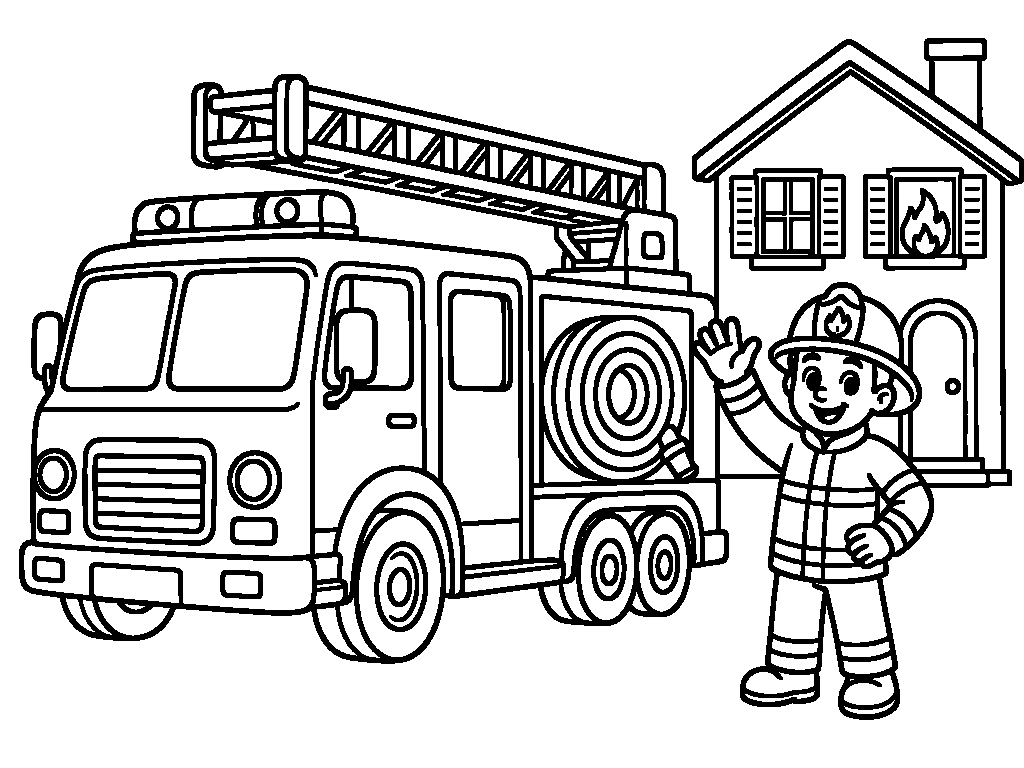
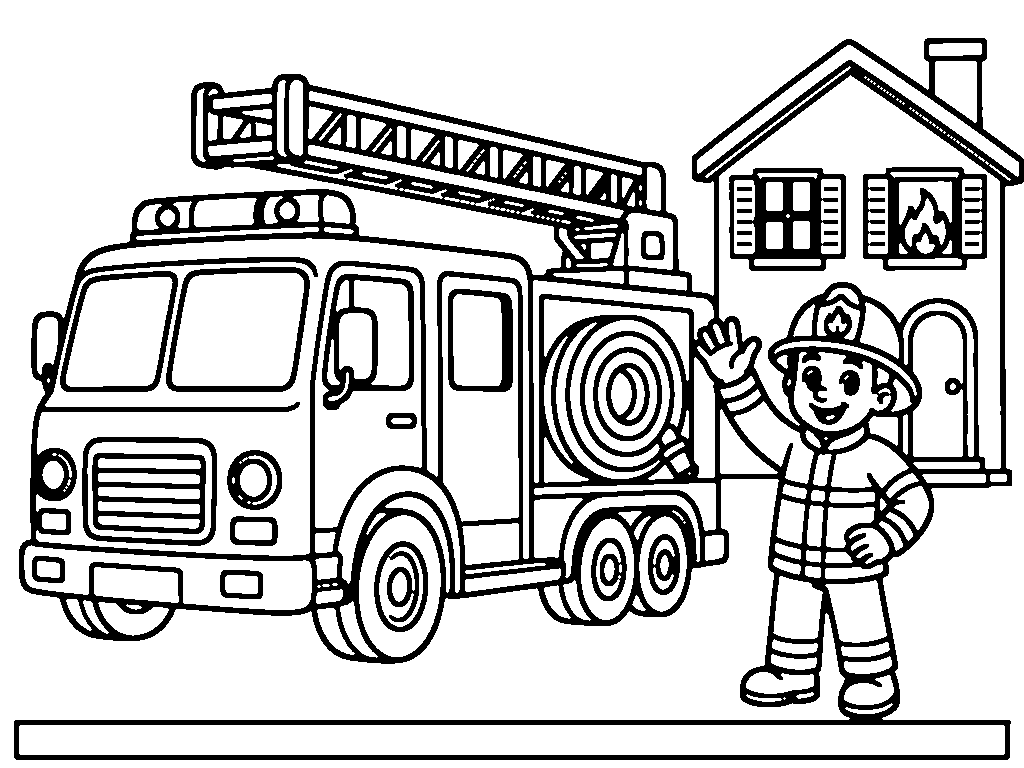
Sluit open vlakken in alle kleurplaten zodat een tik alleen het bedoelde gebied vult.
De heuvel, zee, zand, bergen, grond, rook en palmstammen liepen over in de lucht, en lijnen die tot de rand van de tekening gingen lekten rond het canvas. De omtrekken zijn nu gesloten, de lijnkunst wordt scherper gestempeld en dikker gemaakt, en een test bewaakt dat een vulgebied onder de 25% blijft (behalve de achtergrond).

Changed region(s): [[0.0, 0.9375, 1.0, 1.0], [0.9062, 0.2812, 0.9375, 0.3125]]

diff --git a/test/kleur-fill-regions.js b/test/kleur-fill-regions.js
@@ -1,0 +1,263 @@
+'use strict';
+/**
+ * For every kleurplaat, flood-fill sample points on the live canvas and
+ * assert that a fill stays under ~25% of the canvas, except the intended
+ * background (the region that touches the canvas border / paper edge).
+ *
+ * Serve the app at http://127.0.0.1:8765 then:
+ *   NODE_PATH=/path/to/node_modules node test/kleur-fill-regions.js
+ */
+const puppeteer = require('puppeteer-core');
+const wait = function (ms) { return new Promise(function (r) { setTimeout(r, ms); }); };
+
+const APP = process.env.APP_URL || 'http://127.0.0.1:8765/index.html';
+const CHROME = process.env.CHROME || '/usr/bin/google-chrome';
+const MAX_INNER_PCT = 25;
+
+const PAGES = [
+  'monstertruck', 'dino', 'raket', 'draak', 'eenhoorn', 'brandweerauto',
+  'piratenschip', 'boerderijdieren', 'kasteel', 'vliegtuig', 'prinses', 'onderwater'
+];
+
+/* Known spots that used to leak into the sky / half the page (PNG 1024x768). */
+const LEAK_SAMPLES = {
+  monstertruck: [{ x: 512, y: 620, name: 'heuvel' }, { x: 121, y: 87, name: 'ster' }, { x: 635, y: 308, name: 'portier' }],
+  dino: [{ x: 191, y: 124, name: 'rook' }, { x: 500, y: 720, name: 'grond' }, { x: 910, y: 418, name: 'palmstam' }, { x: 600, y: 400, name: 'dino' }],
+  draak: [{ x: 150, y: 300, name: 'berg-links' }, { x: 850, y: 300, name: 'berg-rechts' }, { x: 80, y: 600, name: 'voorgrond' }, { x: 500, y: 600, name: 'rots' }],
+  piratenschip: [{ x: 500, y: 650, name: 'zee' }, { x: 400, y: 280, name: 'zeil' }],
+  onderwater: [{ x: 500, y: 700, name: 'zand' }, { x: 449, y: 401, name: 'octopus' }],
+  boerderijdieren: [{ x: 200, y: 700, name: 'grond' }, { x: 400, y: 500, name: 'varken' }],
+  brandweerauto: [{ x: 512, y: 739, name: 'grond' }, { x: 400, y: 400, name: 'auto' }],
+  prinses: [{ x: 200, y: 750, name: 'grond' }, { x: 400, y: 400, name: 'jurk' }],
+  eenhoorn: [{ x: 500, y: 350, name: 'regenboog' }, { x: 400, y: 200, name: 'lijf' }],
+  kasteel: [{ x: 512, y: 680, name: 'gracht' }, { x: 500, y: 400, name: 'muur' }],
+  raket: [{ x: 512, y: 300, name: 'raket' }, { x: 200, y: 150, name: 'maan' }],
+  vliegtuig: [{ x: 500, y: 350, name: 'toestel' }, { x: 200, y: 500, name: 'wolk' }]
+};
+
+async function waitOutline(page) {
+  var deadline = Date.now() + 8000;
+  while (Date.now() < deadline) {
+    var ready = await page.evaluate(function () {
+      var c = document.getElementById('teken-outline');
+      if (!c) return false;
+      var d = c.getContext('2d').getImageData(0, 0, c.width, c.height).data;
+      var i, n = 0;
+      for (i = 3; i < d.length; i += 16) if (d[i] > 40) n++;
+      return n > 200;
+    });
+    if (ready) return true;
+    await wait(100);
+  }
+  return false;
+}
+
+async function openFromKies(page, id) {
+  var onTeken = await page.evaluate(function () {
+    var el = document.getElementById('screen-teken');
+    return el && el.className.indexOf('is-hidden') === -1;
+  });
+  if (onTeken) {
+    await page.click('#btn-teken-back');
+    await wait(350);
+  }
+  var onKies = await page.evaluate(function () {
+    var el = document.getElementById('screen-kleurkies');
+    return el && el.className.indexOf('is-hidden') === -1;
+  });
+  if (!onKies) {
+    throw new Error('niet op kleurkies voor ' + id);
+  }
+  await page.click('[data-page="' + id + '"]');
+  await page.waitForSelector('#screen-teken:not(.is-hidden)');
+  if (!(await waitOutline(page))) throw new Error('outline niet geladen: ' + id);
+}
+
+(async function main() {
+  const browser = await puppeteer.launch({
+    executablePath: CHROME,
+    headless: 'new',
+    args: ['--no-sandbox', '--disable-gpu']
+  });
+  const page = await browser.newPage();
+  await page.setViewport({ width: 1024, height: 768, deviceScaleFactor: 1 });
+  await page.goto(APP, { waitUntil: 'networkidle0' });
+  await page.evaluate(function () { try { localStorage.clear(); } catch (e) {} });
+  await page.reload({ waitUntil: 'networkidle0' });
+  await wait(200);
+  await page.click('#btn-goto-tekenen');
+  await wait(250);
+  await page.click('[data-act="teken-kleur"]');
+  await wait(400);
+
+  var failed = [];
+  var i, id, report, j, rec;
+
+  for (i = 0; i < PAGES.length; i++) {
+    id = PAGES[i];
+    await openFromKies(page, id);
+    report = await page.evaluate(function (samples) {
+      var paper = document.getElementById('teken-paper');
+      var outline = document.getElementById('teken-outline');
+      if (!paper || !outline) return { error: 'geen canvas' };
+      var w = paper.width, h = paper.height, tot = w * h;
+      var odata = outline.getContext('2d').getImageData(0, 0, w, h).data;
+
+      function isWall(x, y) {
+        if (x < 0 || y < 0 || x >= w || y >= h) return true;
+        return odata[(y * w + x) * 4 + 3] > 40;
+      }
+
+      function floodArea(sx, sy) {
+        if (isWall(sx, sy)) return { area: 0, pct: 0, wall: true, touchesBorder: false };
+        var seen = new Uint8Array(tot);
+        var stack = [sx, sy];
+        var area = 0, touches = false, x, y, pos;
+        seen[sy * w + sx] = 1;
+        while (stack.length) {
+          y = stack.pop();
+          x = stack.pop();
+          if (x === 0 || y === 0 || x === w - 1 || y === h - 1) touches = true;
+          area++;
+          if (x + 1 < w && !seen[y * w + x + 1] && !isWall(x + 1, y)) { seen[y * w + x + 1] = 1; stack.push(x + 1, y); }
+          if (x - 1 >= 0 && !seen[y * w + x - 1] && !isWall(x - 1, y)) { seen[y * w + x - 1] = 1; stack.push(x - 1, y); }
+          if (y + 1 < h && !seen[(y + 1) * w + x] && !isWall(x, y + 1)) { seen[(y + 1) * w + x] = 1; stack.push(x, y + 1); }
+          if (y - 1 >= 0 && !seen[(y - 1) * w + x] && !isWall(x, y - 1)) { seen[(y - 1) * w + x] = 1; stack.push(x, y - 1); }
+        }
+        return { area: area, pct: area * 100 / tot, wall: false, touchesBorder: touches };
+      }
+
+      function pngToCanvas(px, py) {
+        var pad = Math.round(Math.min(w, h) * 0.03);
+        var iw = 1024, ih = 768;
+        var s = Math.min((w - pad * 2) / iw, (h - pad * 2) / ih);
+        var dw = iw * s, dh = ih * s;
+        var dx = (w - dw) / 2, dy = (h - dh) / 2;
+        return { x: Math.floor(dx + px * s), y: Math.floor(dy + py * s) };
+      }
+
+      /* Connected components of free pixels; take the largest inner seeds. */
+      var labels = new Int32Array(tot);
+      var comp = 0;
+      var stats = [];
+      var x, y, pos, k, qx, qy, q, area, touches, cx, cy, start;
+      for (y = 0; y < h; y++) {
+        for (x = 0; x < w; x++) {
+          pos = y * w + x;
+          if (labels[pos] || odata[pos * 4 + 3] > 40) continue;
+          comp++;
+          q = [x, y];
+          labels[pos] = comp;
+          area = 0;
+          touches = false;
+          cx = 0;
+          cy = 0;
+          while (q.length) {
+            qy = q.pop();
+            qx = q.pop();
+            area++;
+            cx += qx;
+            cy += qy;
+            if (qx === 0 || qy === 0 || qx === w - 1 || qy === h - 1) touches = true;
+            if (qx + 1 < w && !labels[qy * w + qx + 1] && odata[(qy * w + qx + 1) * 4 + 3] <= 40) {
+              labels[qy * w + qx + 1] = comp; q.push(qx + 1, qy);
+            }
+            if (qx - 1 >= 0 && !labels[qy * w + qx - 1] && odata[(qy * w + qx - 1) * 4 + 3] <= 40) {
+              labels[qy * w + qx - 1] = comp; q.push(qx - 1, qy);
+            }
+            if (qy + 1 < h && !labels[(qy + 1) * w + qx] && odata[((qy + 1) * w + qx) * 4 + 3] <= 40) {
+              labels[(qy + 1) * w + qx] = comp; q.push(qx, qy + 1);
+            }
+            if (qy - 1 >= 0 && !labels[(qy - 1) * w + qx] && odata[((qy - 1) * w + qx) * 4 + 3] <= 40) {
+              labels[(qy - 1) * w + qx] = comp; q.push(qx, qy - 1);
+            }
+          }
+          stats.push({
+            id: comp,
+            area: area,
+            pct: area * 100 / tot,
+            touches: touches,
+            cx: Math.floor(cx / area),
+            cy: Math.floor(cy / area)
+          });
+        }
+      }
+      stats.sort(function (a, b) { return b.area - a.area; });
+
+      var results = [];
+      var inner = [];
+      for (k = 0; k < stats.length; k++) {
+        if (!stats[k].touches && stats[k].pct >= 0.2) inner.push(stats[k]);
+      }
+      /* A few of the largest inner regions. */
+      for (k = 0; k < inner.length && k < 10; k++) {
+        results.push({
+          name: 'inner-' + k,
+          x: inner[k].cx,
+          y: inner[k].cy,
+          fill: floodArea(inner[k].cx, inner[k].cy),
+          kind: 'inner'
+        });
+      }
+      /* Background corner should be allowed to be large. */
+      start = floodArea(2, 2);
+      results.push({ name: 'hoek-achtergrond', x: 2, y: 2, fill: start, kind: 'background' });
+
+      for (k = 0; k < samples.length; k++) {
+        var p = pngToCanvas(samples[k].x, samples[k].y);
+        /* If we landed on ink, walk a few pixels for a free neighbour. */
+        var sx = p.x, sy = p.y, found = !isWall(sx, sy), r, a, b;
+        if (!found) {
+          for (r = 1; r <= 12 && !found; r++) {
+            for (a = -r; a <= r && !found; a++) {
+              for (b = -r; b <= r && !found; b++) {
+                if (!isWall(p.x + a, p.y + b)) { sx = p.x + a; sy = p.y + b; found = true; }
+              }
+            }
+          }
+        }
+        results.push({
+          name: samples[k].name,
+          x: sx,
+          y: sy,
+          fill: found ? floodArea(sx, sy) : { area: 0, pct: 0, wall: true, touchesBorder: false },
+          kind: 'sample'
+        });
+      }
+      return { w: w, h: h, results: results, nInner: inner.length, nComp: stats.length };
+    }, LEAK_SAMPLES[id] || []);
+
+    if (report.error) {
+      failed.push(id + ': ' + report.error);
+      console.log('FAIL ' + id + ': ' + report.error);
+      continue;
+    }
+    var okPage = true;
+    var lines = [];
+    for (j = 0; j < report.results.length; j++) {
+      rec = report.results[j];
+      var pct = rec.fill && rec.fill.pct ? rec.fill.pct : 0;
+      var isBg = rec.kind === 'background' || (rec.fill && rec.fill.touchesBorder);
+      var bad = !isBg && !rec.fill.wall && pct > MAX_INNER_PCT;
+      if (bad) {
+        okPage = false;
+        failed.push(id + ' ' + rec.name + ' vult ' + pct.toFixed(2) + '% (max ' + MAX_INNER_PCT + '%)');
+      }
+      lines.push((bad ? 'FAIL ' : 'ok   ') + rec.name + ' ' + pct.toFixed(2) + '%' +
+        (isBg ? ' [achtergrond]' : '') + (rec.fill.wall ? ' [lijn]' : ''));
+    }
+    console.log((okPage ? 'OK  ' : 'FAIL') + ' ' + id + ' canvas=' + report.w + 'x' + report.h +
+      ' inner-regios>=0.2%=' + report.nInner);
+    for (j = 0; j < lines.length; j++) console.log('     ' + lines[j]);
+  }
+
+  await browser.close();
+  if (failed.length) {
+    console.error('\nFAILED:\n' + failed.join('\n'));
+    process.exit(1);
+  }
+  console.log('\nALL KLEUR FILL REGION CHECKS OK');
+})().catch(function (e) {
+  console.error(e && e.stack || e);
+  process.exit(1);
+});

diff --git a/index.html b/index.html
@@ -10574,6 +10574,10 @@
     tctx = tmp.getContext('2d');
     if (!tctx) return;
     tctx.clearRect(0, 0, w, h);
+    tctx.imageSmoothingEnabled = false;
+    if (tctx.webkitImageSmoothingEnabled !== undefined) tctx.webkitImageSmoothingEnabled = false;
+    if (tctx.mozImageSmoothingEnabled !== undefined) tctx.mozImageSmoothingEnabled = false;
+    if (tctx.msImageSmoothingEnabled !== undefined) tctx.msImageSmoothingEnabled = false;
     drawImageContained(tctx, img, w, h, Math.round(Math.min(w, h) * 0.03));
     imgd = tctx.getImageData(0, 0, w, h);
     data = imgd.data;
@@ -10599,8 +10603,45 @@
         data[i + 3] = (a > 255) ? 255 : a;
       }
     }
+    thickenOutlineInk(data, w, h);
     ctx.clearRect(0, 0, w, h);
     ctx.putImageData(imgd, 0, 0);
+  }
+
+  function thickenOutlineInk(data, w, h) {
+    var src, x, y, p, nx, ny, dx, dy, hit, i, n;
+    n = w * h;
+    src = new Uint8Array(n);
+    for (i = 0; i < n; i++) {
+      src[i] = data[i * 4 + 3] > 40 ? 1 : 0;
+    }
+    for (y = 0; y < h; y++) {
+      for (x = 0; x < w; x++) {
+        if (src[y * w + x]) continue;
+        hit = 0;
+        for (dy = -1; dy <= 1; dy++) {
+          if (hit) break;
+          ny = y + dy;
+          if (ny < 0 || ny >= h) continue;
+          for (dx = -1; dx <= 1; dx++) {
+            if (!dx && !dy) continue;
+            nx = x + dx;
+            if (nx < 0 || nx >= w) continue;
+            if (src[ny * w + nx]) {
+              hit = 1;
+              break;
+            }
+          }
+        }
+        if (hit) {
+          p = (y * w + x) * 4;
+          data[p] = 20;
+          data[p + 1] = 20;
+          data[p + 2] = 20;
+          data[p + 3] = 255;
+        }
+      }
+    }
   }
 
   function ensureKleurRaster(page, done) {
